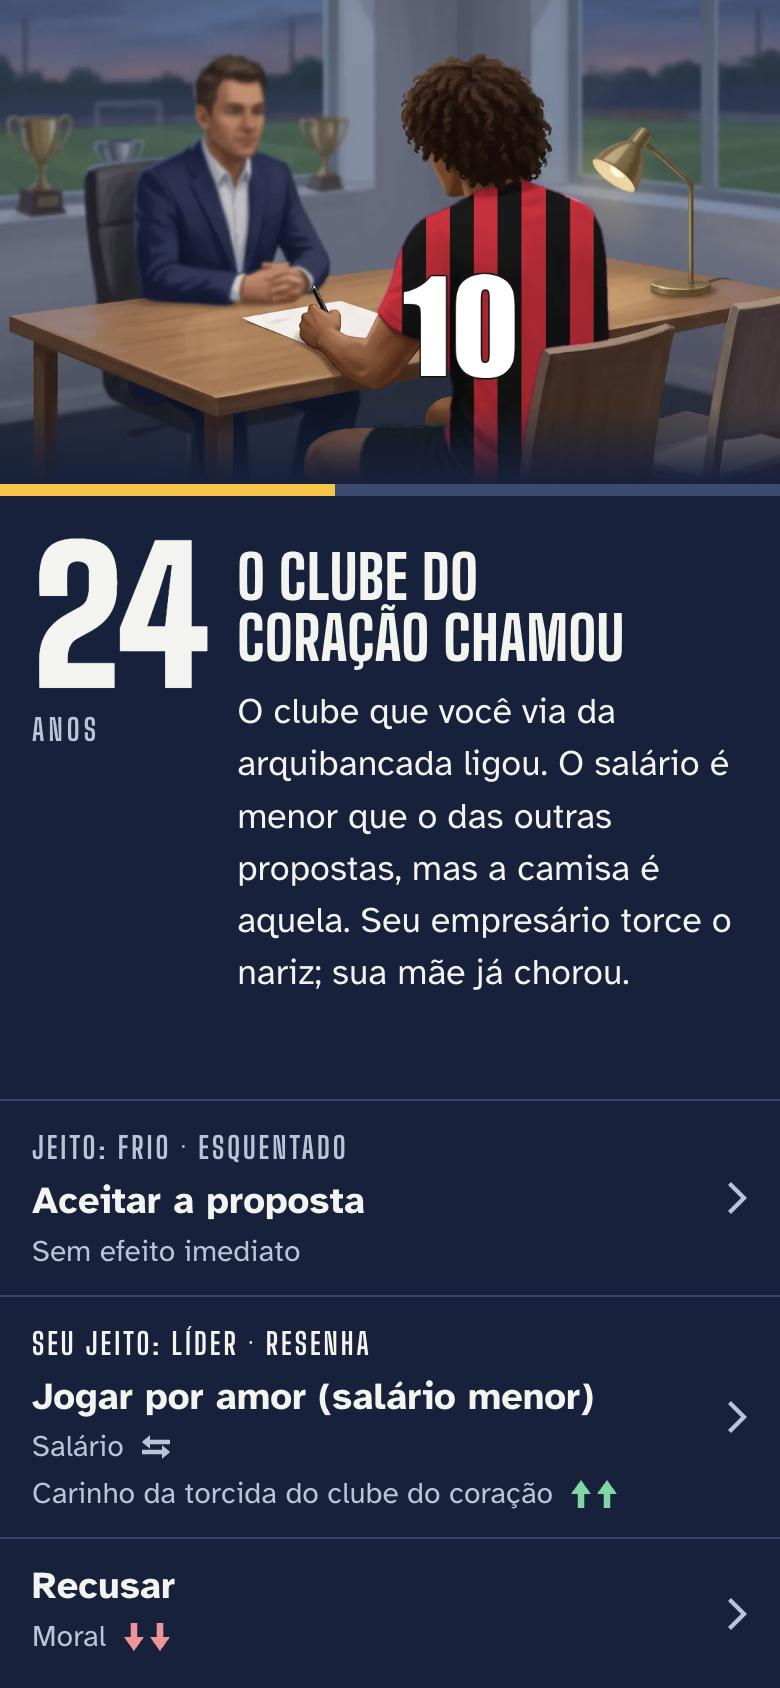
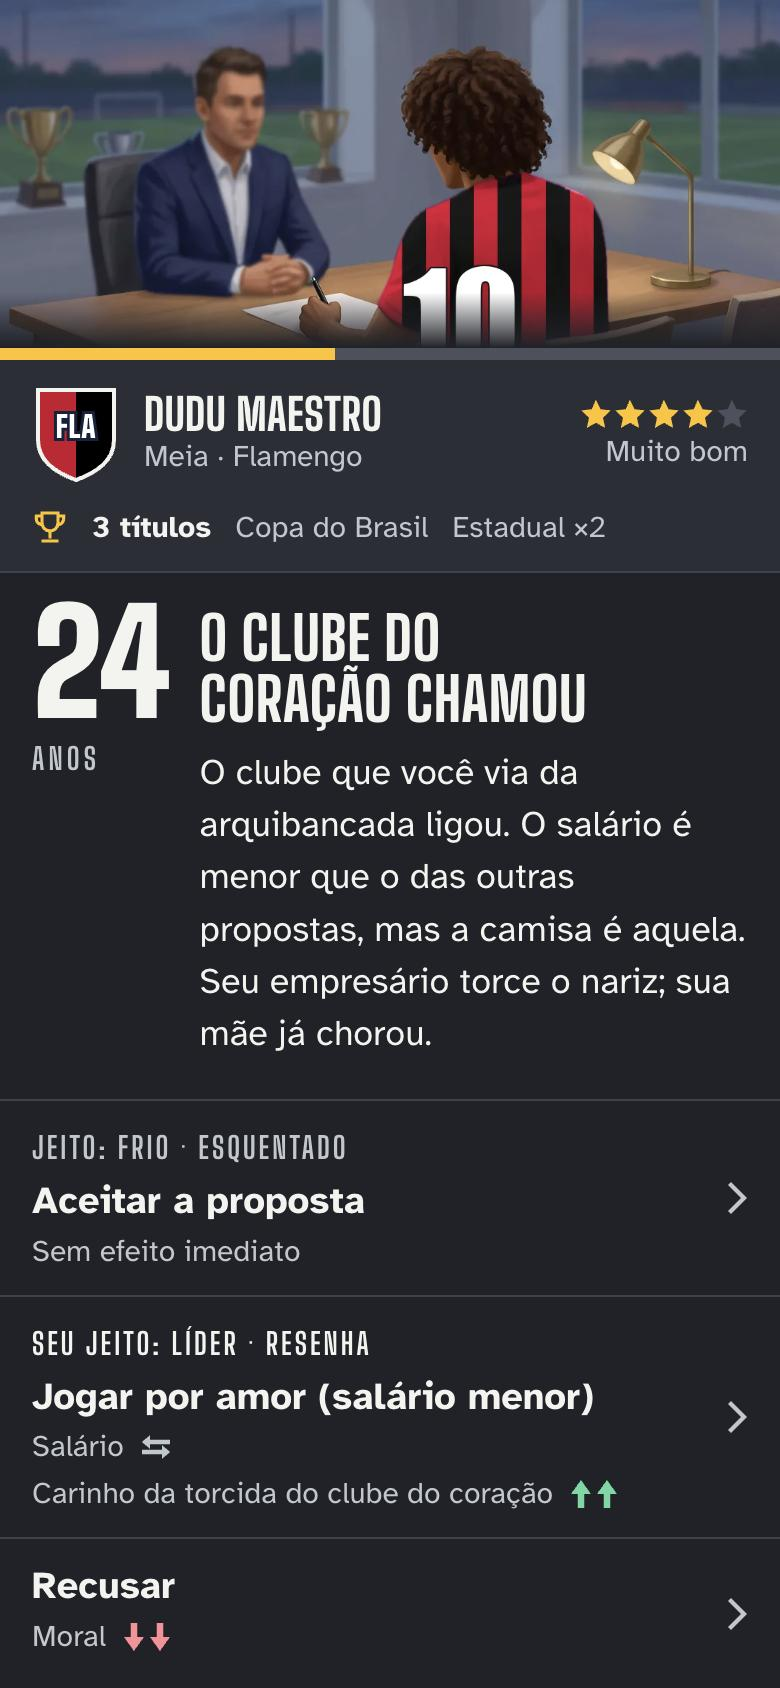
feat(T49): faixa do jogador, resumo de títulos e tema escuro em cinza neutro
Revisão do usuário: a tela estava impessoal. Entram escudo estilizado, nome,
posição, clube, nível em estrelas e faixa (sem número) e os títulos
conquistados. O fundo das telas com cena passa a cinza neutro para não
disputar com as cores dos clubes (SPEC v2.15).

diff --git a/src/ui/screens/Decision.tsx b/src/ui/screens/Decision.tsx
@@ -1,5 +1,8 @@
 import { useState } from 'react';
 import events from '../../data/events.json';
+import legacy from '../../data/legacy.json';
+import { toBand } from '../../engine/attributes';
+import { CLUBS } from '../../engine/clubs';
 import { temperamentsFor } from '../../engine/events';
 import { previewOf, type Preview } from '../../engine/preview';
 import { t } from '../../i18n';
@@ -13,6 +16,8 @@ export interface DecisionProps {
   /** Fração da carreira já vivida, de 0 a 1. */
   progress: number;
   scene: { src: string; alt: string };
+  /** Quem decide: o nível entra como número, mas só estrelas e faixa vão para a tela (SPEC: nenhum número de atributo antes do cartão). */
+  player: { name: string; position: string; clubId: string; overall: number; titles: string[] };
   /** Temperamento do jogador: a opção que combina com ele é marcada como "Seu jeito". */
   temperament?: string;
   onChoose?: (optionId: string) => void;
@@ -34,7 +39,57 @@ function Arrows({ sentido, intensidade }: Pick<Preview, 'sentido' | 'intensidade
   );
 }
 
-export function Decision({ eventId, age, progress, scene, temperament, onChoose }: DecisionProps) {
+const STAR = 'M8 .8 10.2 5.6l5.2.6-3.9 3.6 1.1 5.2L8 12.4 3.4 15l1.1-5.2L.6 6.2l5.2-.6z';
+const TITLE_WEIGHT = legacy.titulos.pontos as Record<string, number>;
+
+function Stars({ value, label }: { value: number; label: string }) {
+  return (
+    <span className="estrelas" role="img" aria-label={label}>
+      {[0, 1, 2, 3, 4].map((i) => (
+        <svg key={i} viewBox="0 0 16 16" width="16" height="16" focusable="false">
+          <path d={STAR} className="estrelas__vazia" />
+          <path d={STAR} className="estrelas__cheia" style={{ clipPath: `inset(0 ${100 - Math.min(1, Math.max(0, value - i)) * 100}% 0 0)` }} />
+        </svg>
+      ))}
+    </span>
+  );
+}
+
+/** Escudo estilizado: só as duas cores e a sigla do clube, nunca o escudo oficial (SPEC 11). */
+function Crest({ clubId }: { clubId: string }) {
+  const club = CLUBS.find((c) => c.id === clubId);
+  if (!club) return null;
+  return (
+    <svg className="escudo" viewBox="0 0 44 50" width="44" height="50" role="img" aria-label={t('ui.decisao.escudo', { clube: club.nome })}>
+      <path d="M3 3h38v25c0 10-8 16-19 20C11 44 3 38 3 28z" fill={club.cores[0]} />
+      <path d="M22 3h19v25c0 10-8 16-19 20z" fill={club.cores[1]} />
+      <path d="M3 3h38v25c0 10-8 16-19 20C11 44 3 38 3 28z" fill="none" stroke="currentColor" strokeWidth="2" />
+      <text x="22" y="27" textAnchor="middle" className="escudo__sigla">{club.sigla}</text>
+    </svg>
+  );
+}
+
+function Trophies({ titles }: { titles: string[] }) {
+  const counts = new Map<string, number>();
+  for (const id of titles) counts.set(id, (counts.get(id) ?? 0) + 1);
+  const ranked = [...counts].sort((a, b) => (TITLE_WEIGHT[b[0]] ?? 0) - (TITLE_WEIGHT[a[0]] ?? 0));
+  const shown = ranked.slice(0, 3);
+  const hidden = ranked.slice(3).reduce((n, [, c]) => n + c, 0);
+  return (
+    <p className="trofeus">
+      <svg viewBox="0 0 18 18" width="18" height="18" aria-hidden="true" focusable="false">
+        <path d="M5 2h8v5a4 4 0 0 1-8 0zM5 3.5H2.2V5A2.8 2.8 0 0 0 5 7.8M13 3.5h2.8V5A2.8 2.8 0 0 1 13 7.8M9 11v3M5.5 16h7" fill="none" stroke="currentColor" strokeWidth="1.6" strokeLinecap="square" />
+      </svg>
+      <strong>{titles.length === 0 ? t('ui.decisao.semTitulos') : titles.length === 1 ? t('ui.decisao.umTitulo') : t('ui.decisao.titulos', { n: titles.length })}</strong>
+      {shown.map(([id, n]) => <span key={id}>{n > 1 ? `${t(`ui.titulo.${id}`)} ×${n}` : t(`ui.titulo.${id}`)}</span>)}
+      {hidden > 0 && <span>{t('ui.decisao.maisTitulos', { n: hidden })}</span>}
+    </p>
+  );
+}
+
+export function Decision({ eventId, age, progress, scene, player, temperament, onChoose }: DecisionProps) {
+  const band = toBand(player.overall);
+  const club = CLUBS.find((c) => c.id === player.clubId);
   const [chosen, setChosen] = useState<string | null>(null);
   const options = events.eventos.find((e) => e.id === eventId)?.opcoes ?? [];
   const percent = Math.round(Math.min(1, Math.max(0, progress)) * 100);
@@ -50,6 +105,18 @@ export function Decision({ eventId, age, progress, scene, temperament, onChoose 
         >
           <span className="faixa__feito" style={{ inlineSize: `${percent}%` }} />
         </div>
+        <section className="jogador" aria-label={t('ui.decisao.jogador')}>
+          <Crest clubId={player.clubId} />
+          <div className="jogador__quem">
+            <p className="jogador__nome">{player.name}</p>
+            <p className="jogador__clube">{t('ui.decisao.clubePosicao', { posicao: t(`positions.${player.position}`), clube: club?.nome ?? '' })}</p>
+          </div>
+          <div className="jogador__nivel">
+            <Stars value={band.stars} label={t('ui.decisao.nivel', { faixa: t(`attributes.band.${band.key}`) })} />
+            <span aria-hidden="true">{t(`attributes.band.${band.key}`)}</span>
+          </div>
+          <Trophies titles={player.titles} />
+        </section>
         <header className="decisao__cabeca">
           <p className="decisao__idade" aria-hidden="true">
             <span className="decisao__numero">{age}</span>

diff --git a/src/ui/screens/Decision.test.tsx b/src/ui/screens/Decision.test.tsx
@@ -6,14 +6,15 @@ import { Decision } from './Decision';
 
 const EVENT = 'salario-atrasado';
 const def = events.eventos.find((e) => e.id === EVENT)!;
+const PLAYER = { name: 'Dudu Maestro', position: 'meia', clubId: 'flamengo', overall: 78, titles: ['estadual', 'estadual', 'copaDoBrasil'] };
 const setup = (onChoose = vi.fn()) => {
-  render(<Decision eventId={EVENT} age={17} progress={0.05} scene={{ src: 'cena.webp', alt: 'O jogador na sala do empresário' }} onChoose={onChoose} />);
+  render(<Decision eventId={EVENT} age={17} progress={0.05} player={PLAYER} scene={{ src: 'cena.webp', alt: 'O jogador na sala do empresário' }} onChoose={onChoose} />);
   return onChoose;
 };
 
 describe('perfil de cada opção (pedido do usuário na T49)', () => {
   it('cada opção mostra o temperamento a que remete, e marca o do próprio jogador', () => {
-    render(<Decision eventId="proposta-coracao" age={24} progress={0.4} temperament="lider" scene={{ src: 'c.webp', alt: 'cena' }} />);
+    render(<Decision eventId="proposta-coracao" age={24} progress={0.4} temperament="lider" player={{ name: 'Zé', position: 'meia', clubId: 'flamengo', overall: 60, titles: [] }} scene={{ src: 'c.webp', alt: 'cena' }} />);
     const buttons = screen.getAllByRole('button');
     expect(buttons).toHaveLength(3);
     const [accept, byLove, refuse] = buttons;
@@ -43,6 +44,29 @@ describe('tela de decisão (T49: amostra; T51 completa)', () => {
     const bar = screen.getByRole('progressbar', { name: t('ui.decisao.progresso') });
     expect(bar).toHaveAttribute('aria-valuenow', '5');
     expect(bar).toHaveAttribute('aria-valuetext', t('ui.decisao.idade', { idade: 17 }));
+  });
+
+  it('quem é o jogador: nome, posição, clube com escudo estilizado e nível em estrelas e faixa, sem o número', () => {
+    setup();
+    const who = screen.getByRole('region', { name: t('ui.decisao.jogador') });
+    expect(within(who).getByText('Dudu Maestro')).toBeInTheDocument();
+    expect(within(who).getByText(new RegExp(`${t('positions.meia')}.*Flamengo`))).toBeInTheDocument();
+    expect(within(who).getByRole('img', { name: t('ui.decisao.escudo', { clube: 'Flamengo' }) })).toBeInTheDocument();
+    expect(within(who).getByRole('img', { name: t('ui.decisao.nivel', { faixa: t('attributes.band.muitoBom') }) })).toBeInTheDocument();
+    expect(who.textContent).not.toMatch(/78/);
+  });
+
+  it('resumo dos títulos conquistados até aqui, agrupados por competição', () => {
+    setup();
+    const who = screen.getByRole('region', { name: t('ui.decisao.jogador') });
+    expect(within(who).getByText(t('ui.decisao.titulos', { n: 3 }))).toBeInTheDocument();
+    expect(within(who).getByText(`${t('ui.titulo.estadual')} ×2`)).toBeInTheDocument();
+    expect(within(who).getByText(t('ui.titulo.copaDoBrasil'))).toBeInTheDocument();
+  });
+
+  it('sem título ainda: diz isso, em vez de sumir com a linha', () => {
+    render(<Decision eventId={EVENT} age={16} progress={0} player={{ ...PLAYER, titles: [] }} scene={{ src: 'c.webp', alt: 'cena' }} />);
+    expect(screen.getAllByText(t('ui.decisao.semTitulos')).length).toBeGreaterThan(0);
   });
 
   it('uma decisão por tela: cada opção do evento é um botão com o texto do i18n', () => {

diff --git a/src/ui/screens/Decision.css b/src/ui/screens/Decision.css
@@ -13,7 +13,7 @@
 .decisao__cena {
   inline-size: 100%;
   /* a pintura é 4:5 com os 40% de baixo escuros; entra cortada por baixo e, em tela baixa, encolhe para as opções caberem sem rolagem */
-  flex: 0 1 calc(min(100vw, 30rem) * 0.62);
+  flex: 0 1 calc(min(100vw, 30rem) * 0.5);
   min-block-size: 7rem;
   object-fit: cover;
   object-position: 50% 6%;
@@ -26,20 +26,69 @@
   flex: 1 0 auto;
   display: grid;
   /* faixa e cabeça em cima; a sobra de altura fica entre o texto e as opções, que encostam no polegar */
-  grid-template-rows: auto auto minmax(var(--espaco-3), 1fr) auto;
+  grid-template-rows: auto auto auto minmax(var(--espaco-2), 1fr) auto;
   padding-block-end: env(safe-area-inset-bottom);
 }
-.decisao__opcoes { grid-row: 4; }
+.decisao__opcoes { grid-row: 5; }
 
 .faixa { block-size: 6px; background: var(--cor-trilho); }
 .faixa__feito { display: block; block-size: 100%; min-inline-size: 6px; background: var(--cor-destaque); }
+
+.jogador {
+  display: grid;
+  grid-template-columns: auto minmax(0, 1fr) auto;
+  align-items: center;
+  column-gap: var(--espaco-3);
+  row-gap: var(--espaco-3);
+  padding: var(--espaco-3) var(--espaco-4);
+  background: var(--cor-superficie);
+  border-block-end: 1px solid var(--cor-linha);
+}
+.escudo { color: var(--cor-texto); }
+.escudo__sigla {
+  font-family: var(--fonte-titulo);
+  font-size: 15px;
+  font-weight: 900;
+  letter-spacing: 0.02em;
+  fill: #fff;
+  stroke: #14213d;
+  stroke-width: 3px;
+  paint-order: stroke;
+}
+.jogador__nome {
+  font-family: var(--fonte-titulo);
+  font-size: var(--tipo-nome);
+  font-weight: 800;
+  line-height: 1.05;
+  letter-spacing: 0.01em;
+  text-transform: uppercase;
+  overflow-wrap: anywhere;
+}
+.jogador__clube { font-size: var(--tipo-apoio); line-height: 1.3; color: var(--cor-texto-suave); }
+.jogador__nivel { display: grid; justify-items: end; gap: 2px; font-size: var(--tipo-apoio); line-height: 1.2; color: var(--cor-texto-suave); }
+.estrelas { display: inline-flex; gap: 1px; }
+.estrelas__vazia { fill: var(--cor-trilho); }
+.estrelas__cheia { fill: var(--cor-estrela); }
+
+.trofeus {
+  grid-column: 1 / -1;
+  display: flex;
+  flex-wrap: wrap;
+  align-items: center;
+  gap: var(--espaco-1) var(--espaco-3);
+  font-size: var(--tipo-apoio);
+  line-height: 1.3;
+  color: var(--cor-texto-suave);
+}
+.trofeus svg { flex: none; color: var(--cor-estrela); }
+.trofeus strong { color: var(--cor-texto); }
 
 .decisao__cabeca {
   display: grid;
   grid-template-columns: auto minmax(0, 1fr);
   align-items: start;
   gap: var(--espaco-4);
-  padding: var(--espaco-5) var(--espaco-4) var(--espaco-4);
+  padding: var(--espaco-4) var(--espaco-4) var(--espaco-3);
 }
 
 .decisao__idade { display: grid; justify-items: start; font-family: var(--fonte-titulo); }

diff --git a/src/ui/theme/theme.test.ts b/src/ui/theme/theme.test.ts
@@ -15,7 +15,9 @@ describe('tokens visuais (T49, SPEC 7)', () => {
     });
     for (const t of THEMES) expect(tokens.temas[t].destaque).toBe(tokens.paleta.amarelo);
     expect(tokens.temas.claro.fundo).toBe(tokens.paleta.cal);
-    expect(tokens.temas.escuro.fundo).toBe(tokens.paleta.marinho);
+    // pedido do usuário (T49): fundo cinza neutro nas telas com cena, para não brigar com as cores dos clubes
+    const [r, g, b] = [1, 3, 5].map((i) => parseInt(tokens.temas.escuro.fundo.slice(i, i + 2), 16)) as [number, number, number];
+    expect(Math.max(r, g, b) - Math.min(r, g, b)).toBeLessThanOrEqual(12);
   });
 
   it('todo par de texto passa em AA (4,5:1) e todo par gráfico em 3:1, nos dois temas', () => {
@@ -55,5 +57,6 @@ describe('tokens visuais (T49, SPEC 7)', () => {
     for (const role of Object.keys(tokens.temas.claro)) expect(css).toContain(`--cor-${role.replace(/[A-Z]/g, (m) => '-' + m.toLowerCase())}:`);
     expect(css).toContain('--fonte-titulo:');
     expect(css).toContain('--espaco-4:');
+    expect(css).toContain(`body:has([data-tema="escuro"]) { background: ${tokens.temas.escuro.fundo}`);
   });
 });

diff --git a/src/App.tsx b/src/App.tsx
@@ -3,7 +3,10 @@ import { Decision } from './ui/screens/Decision';
 import scene from './assets/amostra/assinatura-contrato.webp';
 
 // T49: tela de amostra para aprovar o visual. Evento, idade, temperamento e cena são fixos aqui; a T51 liga a tela à carreira de verdade.
-const SAMPLE = { eventId: 'proposta-coracao', age: 24, careerYears: 20, temperament: 'lider' };
+const SAMPLE = {
+  eventId: 'proposta-coracao', age: 24, careerYears: 20, temperament: 'lider',
+  player: { name: 'Dudu Maestro', position: 'meia', clubId: 'flamengo', overall: 78, titles: ['estadual', 'estadual', 'copaDoBrasil'] },
+};
 
 export function App() {
   return (
@@ -11,6 +14,7 @@ export function App() {
       eventId={SAMPLE.eventId}
       age={SAMPLE.age}
       temperament={SAMPLE.temperament}
+      player={SAMPLE.player}
       progress={(SAMPLE.age - 16 + 0.5) / SAMPLE.careerYears}
       scene={{ src: scene, alt: t('scenes.alt.assinatura-contrato', { nome: t('scenes.jogadorPadrao'), clube: t('ui.amostra.clube') }) }}
     />

diff --git a/src/ui/theme/theme.ts b/src/ui/theme/theme.ts
@@ -29,5 +29,7 @@ export function themeCss(): string {
     `@media (prefers-color-scheme: dark) { :root { ${colors(escuro)} color-scheme: dark; } }`,
     `[data-tema="claro"] { ${colors(claro)} color-scheme: light; }`,
     `[data-tema="escuro"] { ${colors(escuro)} color-scheme: dark; }`,
+    // a página inteira acompanha a tela escura com cena, para não sobrar moldura clara em volta dela
+    `body:has([data-tema="escuro"]) { background: ${escuro.fundo}; }`,
   ].join('\n');
 }

diff --git a/src/ui/base.css b/src/ui/base.css
@@ -16,9 +16,6 @@ body {
   -webkit-font-smoothing: antialiased;
 }
 
-/* A página inteira acompanha a tela escura com cena, para não sobrar moldura clara em volta dela. */
-body:has([data-tema='escuro']) { background: #14213d; }
-
 h1, h2, h3, p { margin: 0; }
 h1, h2, h3 { font-family: var(--fonte-titulo); text-wrap: balance; }
 img { display: block; max-width: 100%; }

diff --git a/SPEC.md b/SPEC.md
@@ -1,6 +1,6 @@
 # 10eFaixa — Especificação do Produto (SPEC.md)
 
-> Versão 2.14 (rótulos de reserva, vereditos redistribuídos, prévia de consequências nas decisões e tema escuro nas telas com cena) · Status: **aprovado para implementação**. Todas as decisões de produto e design estão fechadas.
+> Versão 2.15 (tela de decisão com faixa do jogador e tema escuro em cinza neutro) · Status: **aprovado para implementação**. Todas as decisões de produto e design estão fechadas.
 > Este documento é a fonte da verdade para o Claude Code. Nenhuma mudança de escopo sem atualizar este arquivo primeiro.
 
 ---
@@ -736,5 +736,6 @@ Decisões aprovadas durante a implementação. Complementam as seções acima.
 | 2026-10-02 | Arte (v2.13) | **Lotes 1 e 2 concluídos:** 30 cenas (5 cenários × 6 cortes) e 6 retratos de frente, em 1856×2304, em `docs/arte/`. **Prompts dos lotes 3 a 5 escritos** (199 arquivos, gerados por `docs/arte/gerar-lotes-3-5.py`): 20 cenários restantes × 6 cortes; 10 cenas de jogo em versão de goleiro × 6 cortes; 18 troféus (1:1, fundo marinho); abertura. Nas cenas fora de campo o jogador usa a camisa do clube com calça ou calção azul-marinho | Simplificações: goleiro só tem versão própria nas cenas de jogo; as cenas `gol` e `cabecada` viram `defesa` e `saída do gol` para o goleiro. O rosa do goleiro (#F0569B) fica perto do magenta das máscaras: separar por máscara de região no código de arte (T43b) |
 | 2026-10-02 | T49 | Tokens visuais em `src/ui/theme/tokens.json` (paleta do SPEC, papéis por tema, tipo, espaço, toque), convertidos em variáveis CSS por `theme.ts`. Claro por padrão, escuro pela preferência do aparelho, e `data-tema="escuro"` nas telas com cena. Verde e vermelho ganham versões clareadas no tema escuro (`#63D7A0`, `#FF8E97`) e escurecidas no claro (`#18683F`, `#B81E2E`) para passar em contraste; o amarelo fica só na faixa de progresso e na opção escolhida. Todo par de cor usado em tela é conferido por teste (4,5:1 texto; 3:1 gráfico). Fontes hospedadas no próprio site (sem chamada a servidor de terceiros): Big Shoulders Display e Atkinson Hyperlegible, ambas com licença OFL-1.1 | Pacotes `@fontsource-variable/big-shoulders-display` 5.3.0 e `@fontsource/atkinson-hyperlegible` 5.3.0 (https://fontsource.org/docs/getting-started/install). Registro de produto para o design em `PRODUCT.md`; direção da tela em `.impeccable/surfaces/` |
 | 2026-10-02 | T49 | **Tela de decisão (amostra):** estrutura "Número gigante" escolhida pelo usuário: cena no topo, faixa amarela de progresso, idade em número gigante, título e história, e as opções como faixas de largura inteira com a prévia em setas. A opção escolhida vira a braçadeira amarela. Pedido do usuário na revisão: cena menor, mais espaço para a história, e cada opção mostra o temperamento a que remete ("Jeito: Líder"), marcando o do próprio jogador ("Seu jeito"). Hoje o rótulo sai da política automática de cada evento (`temperamentsFor`) | **Em aberto, mudança de escopo a decidir:** o usuário quer 3 opções em todo evento, cada uma ligada a um perfil. O catálogo atual tem 17 eventos com 2 opções, 4 com 1 e 4 com 3; falta definir qual perfil (temperamento ou mentalidade, ambos com 4 valores) e como 4 perfis viram 3 opções. Em celular de 360×640, três opções com história longa pedem rolagem |
+| 2026-10-02 | T49 (v2.15) | **Segunda revisão do usuário ("muito impessoal"):** a tela de decisão ganha uma faixa do jogador com escudo estilizado (cores e sigla do clube), nome, posição, clube, **nível geral em estrelas e faixa** e o **resumo dos títulos** conquistados até ali (total e as três competições de maior peso). O tema escuro das telas com cena passa de marinho para **cinza neutro** (`#1F2227`), para o painel não disputar com as cores dos clubes; o marinho segue como cor de texto no tema claro e na abertura | O nível geral aparece só em estrelas e faixa ("Muito bom"), nunca em número: a regra "nenhum número de atributo antes do cartão final" continua valendo. Se o usuário quiser o número do overall na tela, é mudança dessa regra e precisa ser decidida |
 | 2026-09-30 | T14 | Sedes reais conferidas: Copa 2026 (EUA, Canadá, México), 2030 (Marrocos, Portugal, Espanha + centenário), 2034 (Arábia Saudita) — FIFA; Olimpíadas 2028 LA, 2032 Brisbane — COI. Demais sedes sorteadas por semente | Fontes e data em src/data/calendar.json |
 | 2026-09-30 | T14 | **Não verificado:** a CONMEBOL não anunciou a próxima Copa América masculina; ciclo assumido a cada 4 anos a partir de 2028 ("entre as Copas", 6.11). Sedes futuras repetem as 5 últimas reais em ordem (2015 Chile, 2016 EUA, 2019 Brasil, 2021 Brasil, 2024 EUA), decisão do usuário. Janelas de transferência modeladas por momento do semestre; datas exatas a conferir na T28 | Marcado `verificado: false` no JSON; revisar quando houver anúncio oficial |

diff --git a/PRODUCT.md b/PRODUCT.md
@@ -45,7 +45,7 @@ Um simulador de carreira rápido e compartilhável na língua do torcedor brasil
 - Nome: **10eFaixa**. O número gigante é o elemento memorável; a faixa horizontal carrega informação (progresso, faixas de atributo, veredito).
 - Paleta fixa (SPEC 7): Cal de campo `#F2F4EF`, Marinho de vestiário `#14213D`, Amarelo braçadeira `#FFC21A` (único destaque), Verde gramado `#1E7B4F` (só evolução positiva), Vermelho cartão `#D62839` (só lesão, queda e alerta), Cinza de linha `#C9CFC6`.
 - Tipografia fixa: Big Shoulders Display (números e títulos) e Atkinson Hyperlegible (texto), sempre com fonte reserva.
-- Tema: escuro nas telas com cena; nas telas de formulário, a preferência do aparelho.
+- Tema: escuro nas telas com cena, em cinza neutro para não disputar com as cores dos clubes; nas telas de formulário, a preferência do aparelho.
 - Movimento: um único momento animado (o número "carimbando" na abertura).
 - Tom de voz: direto, coloquial, frases curtas, sabor de narração de rádio. Botões dizem o que acontece ("Aceitar proposta", "Ficar no clube"). Zoeira só com o próprio jogador.
 - Sem escudos oficiais, sem marcas, sem imagem de pessoa real.
